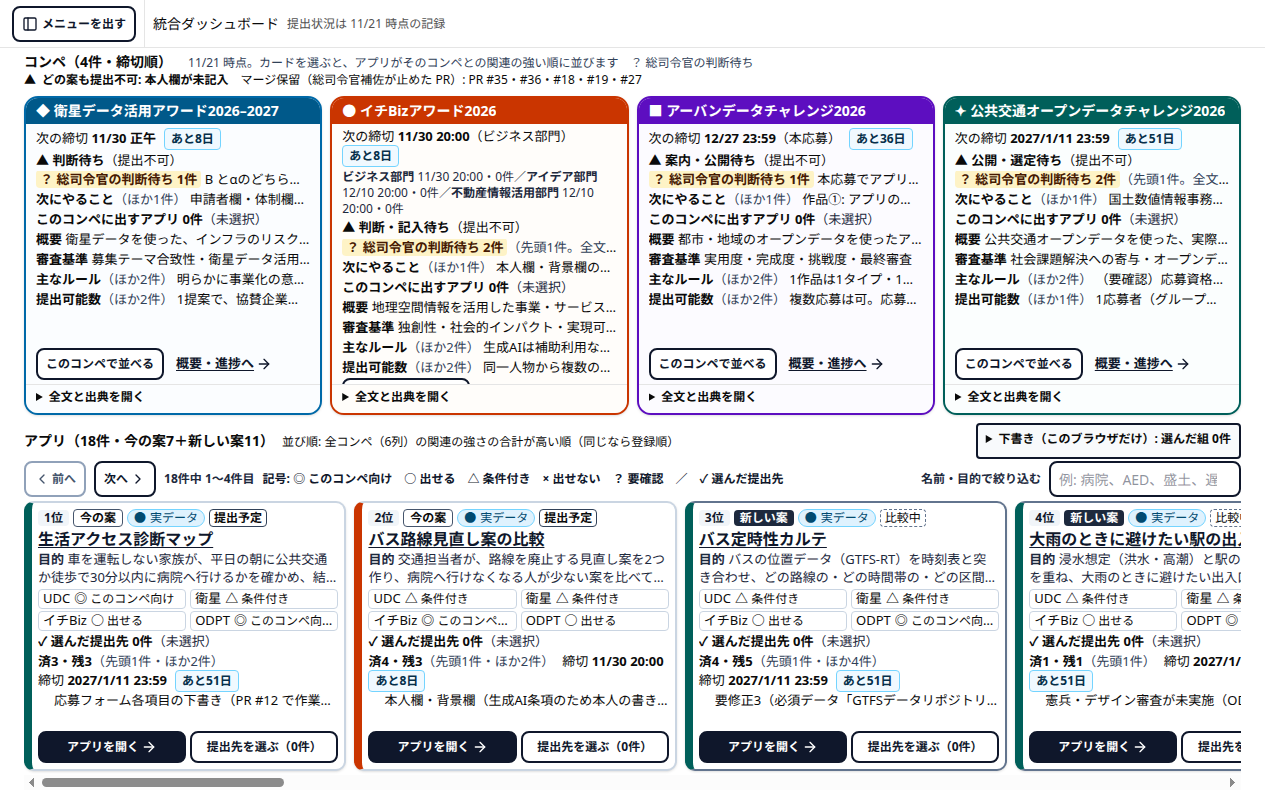
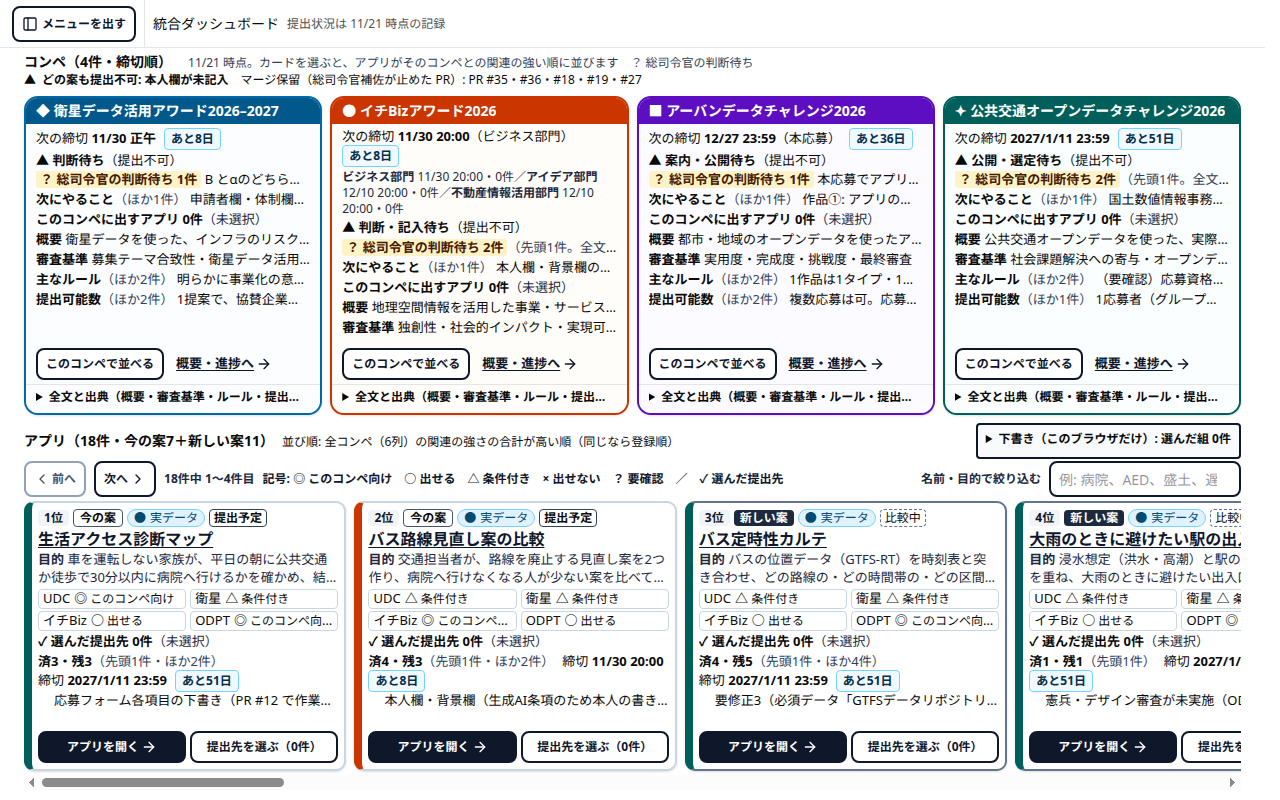
ダッシュボード: カード下端のボタンを固定し、可変部分は入れ物に収まるまで自動で行数・件数を減らす（切れ防止。測定方法も見直し）

diff --git a/contests/dashboard/src/pages/TopRows.tsx b/contests/dashboard/src/pages/TopRows.tsx
@@ -1,4 +1,4 @@
-import { useEffect, useRef, useState } from 'react'
+import { useEffect, useLayoutEffect, useRef, useState } from 'react'
 import { Popover as PopoverPrimitive } from 'radix-ui'
 import { ArrowRight, ChevronLeft, ChevronRight } from 'lucide-react'
 import { NEW_PLAN_LABEL, isNewPlan, getApp, CONTESTS, type AppMeta, type ContestId } from '@/apps/registry'
@@ -35,6 +35,28 @@ export function useTier(): 0 | 1 | 2 | 3 {
   if (w < 1280) return 3
   return h < 830 ? 0 : h < 960 ? 1 : 2
 }
+/**
+ * 可変部分（判断待ち・次にやること・ルールなど）が入れ物より高いとき、段階（lv）を上げて行数・件数を減らしていく。
+ * フォントや描画の違いがあっても、行の途中で切れず、下端のボタンが必ず見える。画面の大きさ・中身・Web フォント読み込みが変わると 0 からやり直す。
+ */
+function useFitLevel(deps: string, max = 9) {
+  const ref = useRef<HTMLDivElement>(null)
+  const { w, h } = useViewport()
+  const [fontTick, setFontTick] = useState(0)
+  useEffect(() => {
+    document.fonts?.ready.then(() => setFontTick((n) => n + 1))
+  }, [])
+  const key = `${w}x${h}|${fontTick}|${deps}`
+  const [st, setSt] = useState({ key, lv: 0 })
+  const lv = st.key === key ? st.lv : 0
+  useLayoutEffect(() => {
+    const el = ref.current
+    if (!el) return
+    if (el.scrollHeight > el.clientHeight + 0.5 && lv < max) setSt({ key, lv: lv + 1 })
+  })
+  return { ref, lv }
+}
+
 const pick = <T,>(tier: number, a: T, b: T, c: T, all: T): T => (tier === 0 ? a : tier === 1 ? b : tier === 2 ? c : all)
 const SHORT_WORD: Record<string, string> = { '◎': 'このコンペ向け', '○': '出せる', '△': '条件付き', '×': '出せない', '？': '要確認' }
 
@@ -59,12 +81,18 @@ export function ContestTopCard({
   const nexts = st.next.filter((n) => !n.decision)
   const next = nexts[0] ?? st.next[0]
   const tier = useTier()
-  const nAsks = pick(tier, 1, 2, 3, 99)
-  const nNext = pick(tier, 1, 1, 2, 99)
-  const nRules = pick(tier, 1, 1, 2, 99)
-  const nLimits = pick(tier, 1, 1, 2, 99)
-  const nCrit = pick(tier, 1, 2, 2, 2)
-  const cl = tier <= 1 ? 'line-clamp-1' : 'line-clamp-2'
+  const { ref: regRef, lv } = useFitLevel(`${info.id}|${tier}|${selected}|${appsForContest(targets, info.id).length}`)
+  const dec = (n: number) => (n >= 99 ? n : Math.max(1, n - Math.min(lv, 2)))
+  const nAsks = dec(pick(tier, 1, 2, 3, 99))
+  const nNext = dec(pick(tier, 1, 1, 2, 99))
+  const nRules = dec(pick(tier, 1, 1, 2, 99))
+  const nLimits = dec(pick(tier, 1, 1, 2, 99))
+  const nCrit = tier < 3 && lv >= 3 ? 1 : pick(tier, 1, 2, 2, 2)
+  const cl = tier <= 1 || (tier < 3 && lv >= 3) ? 'line-clamp-1' : 'line-clamp-2'
+  const hideSummary = tier < 3 && lv >= 7
+  const hideLimits = tier < 3 && lv >= 5
+  const hideRules = tier < 3 && lv >= 6
+  const hideCrit = tier < 3 && lv >= 8
   const more = otherNextCount(info.id)
   const cols = columnsOf(info.id)
   const chosen = appsForContest(targets, info.id)
@@ -87,7 +115,8 @@ export function ContestTopCard({
         </span>
         {selected && <span className="shrink-0 rounded bg-white px-1.5 text-xs text-slate-900" data-testid="selected-tag"><span aria-hidden>✓ </span>選択中</span>}
       </h3>
-      <div className={`flex min-h-0 flex-1 flex-col ${tier === 0 ? 'gap-0.5' : 'gap-1'} overflow-hidden bg-white/70 px-2.5 py-1 text-[0.8125rem] leading-snug`}>
+      <div className="flex min-h-0 flex-1 flex-col bg-white/70 px-2.5 py-1 text-[0.8125rem] leading-snug">
+      <div ref={regRef} className={`flex min-h-0 flex-1 flex-col ${tier === 0 ? 'gap-0.5' : 'gap-1'} overflow-hidden`}>
         <p className="flex flex-wrap items-center gap-x-2" data-testid="row-deadline">
           <span>
             次の締切 <span className="font-bold">{nd.text}</span>
@@ -135,25 +164,26 @@ export function ContestTopCard({
           <span className="font-bold">このコンペに出すアプリ {chosen.length}件</span>
           <span className="text-slate-800">{chosen.length ? `：${chosen.map(appName).join('、')}` : '（未選択）'}</span>
         </p>
-        <p className={`shrink-0 ${tier === 0 ? 'line-clamp-1' : 'line-clamp-2'}`} data-testid="card-summary" title={info.summary}><span className="font-bold">概要 </span>{info.summary}</p>
-        <p className={`shrink-0 ${nCrit === 1 ? 'line-clamp-1' : 'line-clamp-2'}`} data-testid="card-criteria" title={info.criteria.map((c) => c.name).join('・')}>
+        {!hideSummary && <p className={`shrink-0 ${tier === 0 || (tier < 3 && lv >= 4) ? 'line-clamp-1' : 'line-clamp-2'}`} data-testid="card-summary" title={info.summary}><span className="font-bold">概要 </span>{info.summary}</p>}
+        {!hideCrit && <p className={`shrink-0 ${nCrit === 1 ? 'line-clamp-1' : 'line-clamp-2'}`} data-testid="card-criteria" title={info.criteria.map((c) => c.name).join('・')}>
           <span className="font-bold">審査基準 </span>{info.criteria.map((c) => c.name).join('・')}
-        </p>
-        <Sec
+        </p>}
+        {!hideRules && <Sec
           testid="card-rules"
           label={<span className="font-bold">主なルール</span>}
           extra={info.keyRules.length > nRules ? `（ほか${info.keyRules.length - nRules}件）` : ''}
           items={info.keyRules.slice(0, nRules).map((r) => ({ key: r.text, text: r.text, node: <>{r.unconfirmed && '（要確認）'}{r.text}</> }))}
           clamp={cl}
-        />
-        <Sec
+        />}
+        {!hideLimits && <Sec
           testid="card-limits"
           label={<span className="font-bold">提出可能数</span>}
           extra={info.limits.length > nLimits ? `（ほか${info.limits.length - nLimits}件）` : ''}
           items={info.limits.slice(0, nLimits).map((r) => ({ key: r.text, text: r.text, node: <>{r.unconfirmed && '（未確認）'}{r.text}</> }))}
           clamp={cl}
-        />
-        <div className="mt-auto flex flex-wrap items-center gap-x-3 gap-y-1">
+        />}
+      </div>
+        <div className="flex shrink-0 flex-wrap items-center gap-x-3 gap-y-1 pt-1">
           <button
             type="button"
             aria-pressed={selected}
@@ -175,7 +205,7 @@ export function ContestTopCard({
         </div>
       </div>
       <details className="border-t bg-white/70 px-2.5 text-xs" data-testid={`facts-${info.id}`}>
-        <summary className="min-h-7 cursor-pointer truncate py-1 font-bold" title="判断待ち・次にやること・概要・審査基準・ルール・提出可能数の全文">全文と出典を開く</summary>
+        <summary className="min-h-7 cursor-pointer truncate py-1 font-bold" title="判断待ち・次にやること・概要・審査基準・ルール・提出可能数の全文">全文と出典（概要・審査基準・ルール・提出可能数）</summary>
         {/* 開いた中身はカードの中だけでスクロールする（カードの高さは変えず、アプリの行を押し出さない） */}
         <dl className="absolute inset-x-0 bottom-7 top-7 z-10 space-y-2 overflow-y-auto border-y-2 border-slate-400 bg-white px-2.5 py-2" tabIndex={0} aria-label={`${contest.name}の詳細（この枠の中でスクロールします）`}>
           <div>
@@ -317,7 +347,9 @@ export function AppFitCard({
   const info = CONTEST_INFO.find((c) => c.id === a.contest)!
   const nd = plan ? { at: plan.deadlineAt, text: plan.deadlineLabel } : nextDeadline(info)
   const left = plan ? [...plan.todo.map((t) => t.text), ...(plan.decisions ?? [])] : []
-  const nLeft = pick(tier, 1, 2, 3, 99)
+  const { ref: regRef, lv } = useFitLevel(`${a.id}|${tier}|${chosen.length}|${contest}`)
+  const nLeft = tier < 3 && lv >= 5 ? 0 : (() => { const n = pick(tier, 1, 2, 3, 99); return n >= 99 ? n : Math.max(1, n - Math.min(lv, 2)) })()
+  const tight = tier < 3 && lv >= 3
   const chosenCols = FIT_COLUMNS.filter((c) => chosen.includes(c.id))
   return (
     <li
@@ -338,6 +370,7 @@ export function AppFitCard({
         )}
         {plan && <span className={`rounded border px-1 ${plan.intent === '提出予定' ? 'border-slate-700 font-bold' : 'border-dashed border-slate-500'}`}>{plan.intent}</span>}
       </div>
+      <div ref={regRef} className={`flex min-h-0 flex-1 flex-col overflow-hidden ${tier === 0 ? 'gap-0.5' : 'gap-1'}`}>
       <h3 className="line-clamp-2 shrink-0 text-base font-bold leading-tight text-slate-900">
         <a
           href={appUrl(a.id)}
@@ -349,7 +382,7 @@ export function AppFitCard({
           {missing && <span className="sr-only">（未収録の案内）</span>}
         </a>
       </h3>
-      <p className={`shrink-0 ${pick(tier, 'line-clamp-2', 'line-clamp-2', 'line-clamp-3', '')} text-slate-800`} title={a.purpose} data-testid="card-purpose">
+      <p className={`shrink-0 ${tight ? 'line-clamp-1' : pick(tier, 'line-clamp-2', 'line-clamp-2', 'line-clamp-3', '')} text-slate-800`} title={a.purpose} data-testid="card-purpose">
         <span className="font-bold">目的 </span>{a.purpose}
       </p>
       <ul className="grid shrink-0 grid-cols-1 gap-y-0.5 min-[1100px]:grid-cols-2 min-[1100px]:gap-x-1" aria-label="出せるコンペ（◎このコンペ向け ○出せる △条件付き ×出せない ？要確認）">
@@ -374,7 +407,7 @@ export function AppFitCard({
           )
         })}
       </ul>
-      <p data-testid={`chosen-${a.id}`} className="line-clamp-2 shrink-0" title={chosenCols.map(columnShort).join('、')}>
+      <p data-testid={`chosen-${a.id}`} className={`${tight ? 'line-clamp-1' : 'line-clamp-2'} shrink-0`} title={chosenCols.map(columnShort).join('、')}>
         <span className="font-bold"><span aria-hidden>✓ </span>選んだ提出先 {chosenCols.length}件</span>
         <span className="text-slate-800">{chosenCols.length ? `：${chosenCols.map(columnShort).join('、')}` : '（未選択）'}</span>
       </p>
@@ -395,7 +428,8 @@ export function AppFitCard({
           </ul>
         )}
       </div>
-      <div className="mt-auto flex shrink-0 flex-wrap items-center gap-1">
+      </div>
+      <div className="flex shrink-0 flex-wrap items-center gap-1">
         <a
           href={appUrl(a.id)}
           data-testid={`open-app-${a.id}`}
